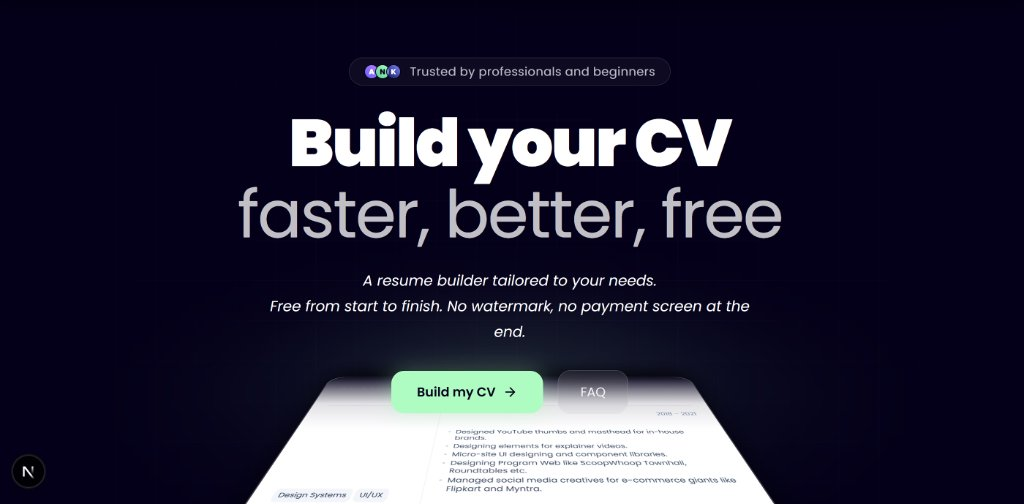
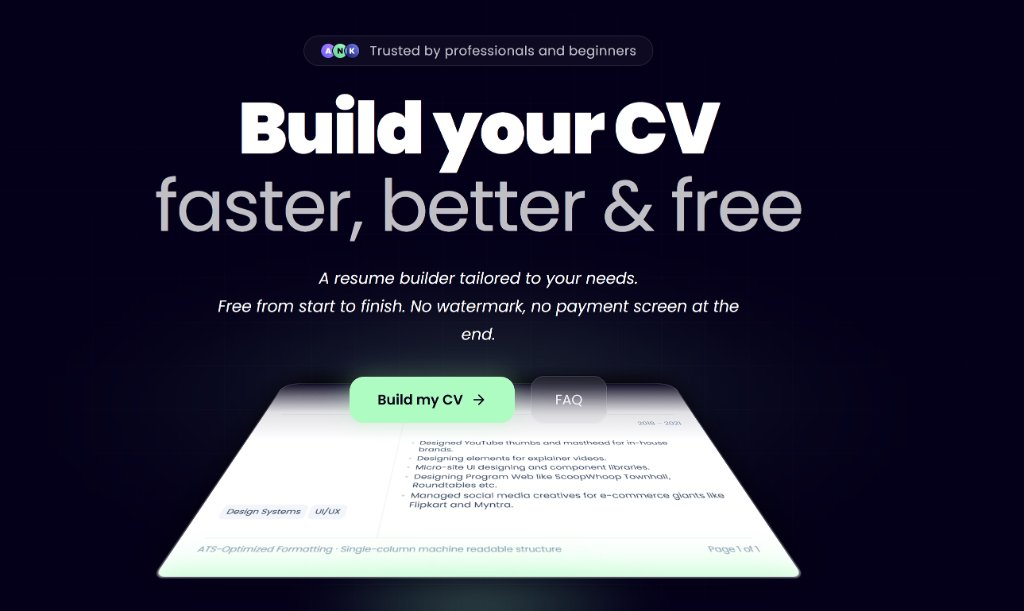
Update SmartCV Builders homepage image to 'faster, better & free' revision with cache buster v2

Changed region(s): [[0.1562, 0.119, 0.7812, 1.0], [0.3125, 0.0595, 0.625, 0.119], [0.0, 0.9226, 0.0312, 0.9524]]

diff --git a/index.html b/index.html
@@ -16,7 +16,7 @@
 <link rel="preload" as="image" href="images/kraymer-earrings.jpg" fetchpriority="high">
 <link rel="preload" as="image" href="images/sadiksha-brochure-outer.jpg" fetchpriority="high">
 <link rel="preload" as="image" href="images/campaign-swaadmandu.jpg" fetchpriority="high">
-<link rel="preload" as="image" href="images/smartcv-homepage.jpg" fetchpriority="high">
+<link rel="preload" as="image" href="images/smartcv-homepage.jpg?v=2" fetchpriority="high">
 <!-- Prefetch video 2 in background so switching is much faster -->
 <link rel="prefetch" as="video" href="videos/video-edit.mp4?v=3">
 <script>
@@ -2556,7 +2556,7 @@ figcaption { font-size: 0.92rem; color: var(--mut); margin-top: 10px; }
                 </div>
               </div>
               <div class="browser-screen-view">
-                <img src="images/smartcv-homepage.jpg" alt="SmartCV Builders live web app interface: Build a professional CV that gets interviews" loading="lazy">
+                <img src="images/smartcv-homepage.jpg?v=2" alt="SmartCV Builders live web app interface: Build your CV faster, better &amp; free" loading="lazy">
                 <div class="browser-screen-badge">
                   <span>ATS-Optimized</span> · 3 Free Tools
                 </div>
@@ -2698,7 +2698,7 @@ figcaption { font-size: 0.92rem; color: var(--mut); margin-top: 10px; }
       </div>
     </div>
 
-    <figure><img src="images/smartcv-homepage.jpg" alt="SmartCV Builders live web app interface: Build a professional CV that gets interviews" loading="lazy" decoding="async"></figure>
+    <figure><img src="images/smartcv-homepage.jpg?v=2" alt="SmartCV Builders live web app interface: Build your CV faster, better &amp; free" loading="lazy" decoding="async"></figure>
 
     <!-- SECTION 01: EXECUTIVE SUMMARY & PROBLEM STATEMENT -->
     <span class="case-section-tag">01 / Executive Summary &amp; Problem Statement</span>
